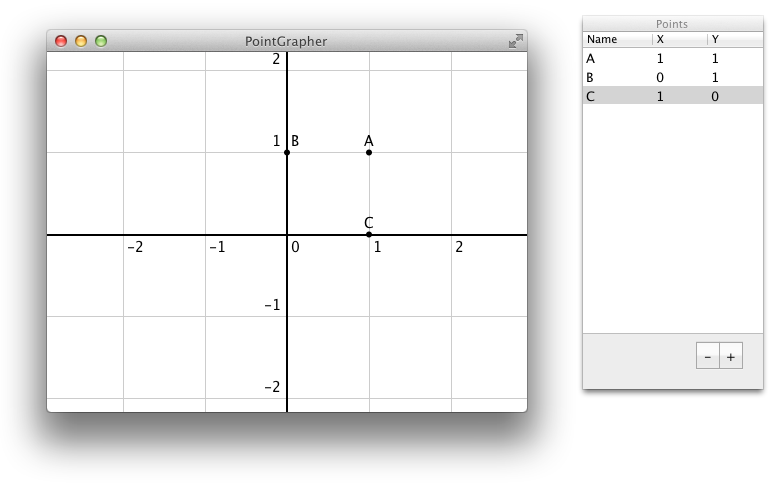
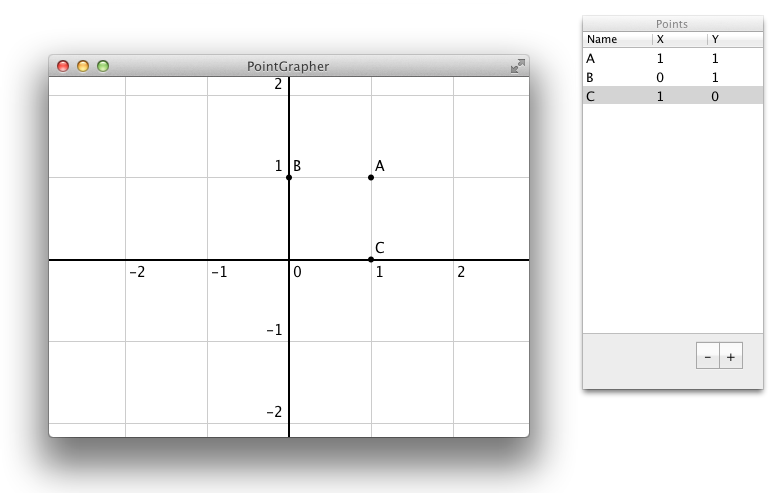
Updated example image for label alignment

diff --git a/README.md b/README.md
@@ -3,9 +3,7 @@ PointGrapher
 
 PointGrapher is a simple Cocoa application written for Mac OS X that can plot points inputted by the user. This could be useful, for instance, in a classroom setting where a diagram needs to be displayed over a projector. Use simple keystrokes for zooming in and out, and drag the mouse around to freely translate the axes.
 
-<center>
 ![Example screenshot of PointGrapher](https://github.com/unixpickle/PointGrapher/raw/master/example.png)
-</center>
 
 ## The *GraphView* class
 
